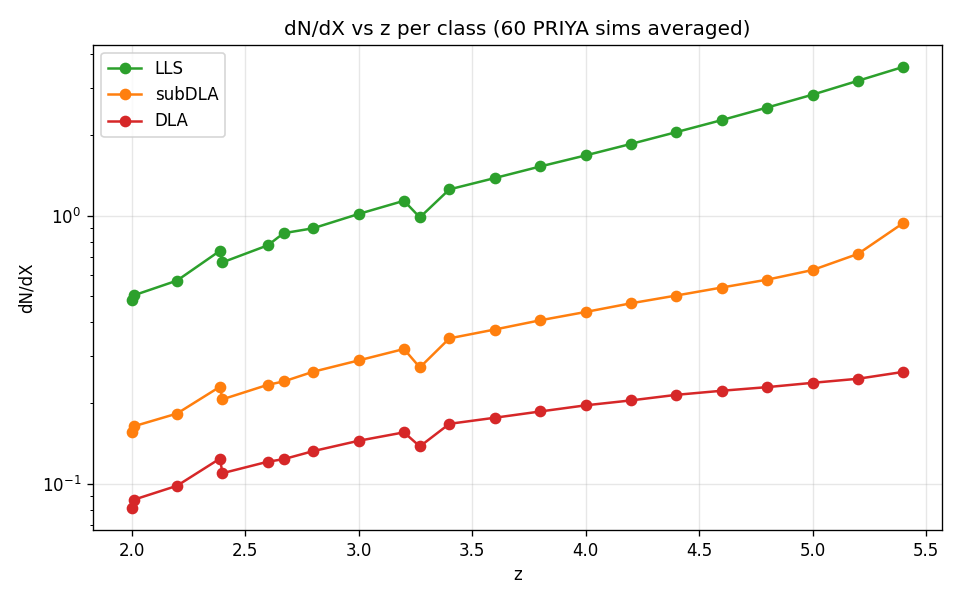
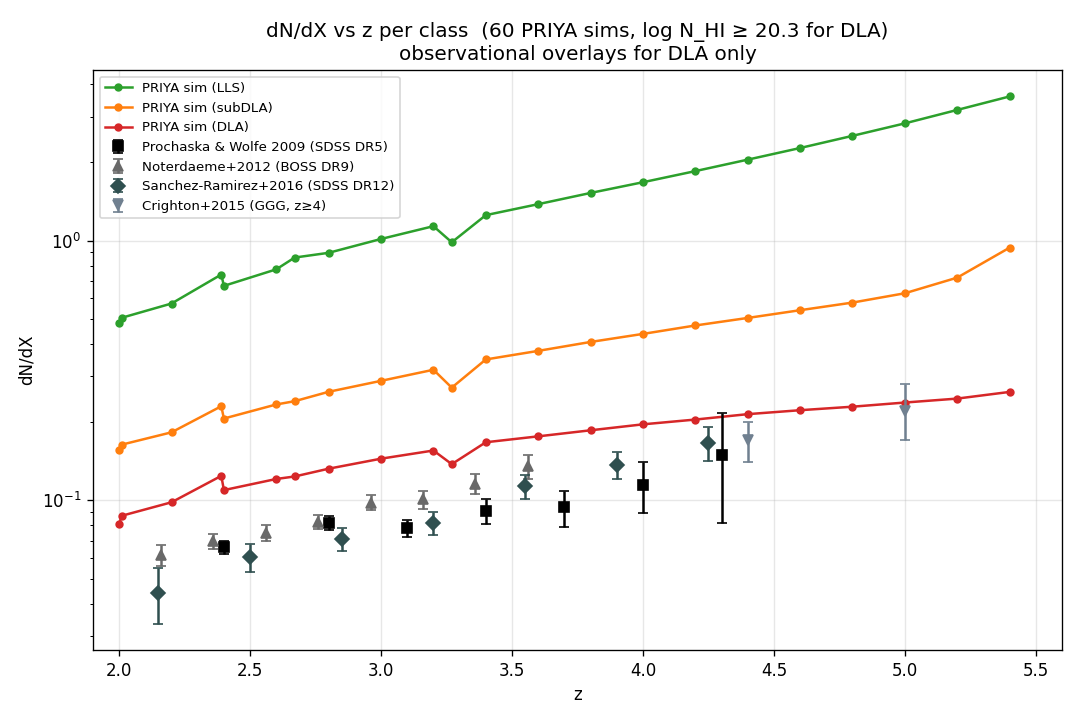
Fix k-convention and add observational dN/dX overlays
per_class_ratio_vs_z.png and per_class_ratio_vs_sim.png now use PRIYA
angular-k convention (k_ang = 2π · k_cyc) on the x-axis, range restricted
to the emulator-relevant 0.009–0.2 rad·s/km. The "small-scale bump" the
user expected sits at k ≈ 0.2 rad·s/km ≈ 2π/b for b=30 km/s — exactly
the Doppler-transition-width feature, now clearly visible at the high-k
edge. A vertical dashed line on the LLS panel calls out this k.

dndx_vs_z.png now overlays four observational DLA-line-density
tabulations (Prochaska & Wolfe 2009, Noterdaeme+2012, Sanchez-Ramirez+2016,
Crighton+2015). The PRIYA simulation dN/dX (DLA) sits ~30–100 % above
observations at all z, consistent with the universal CDDF over-prediction
flagged in docs/analysis.md §2.  Values hardcoded in
scripts/regen_intermediate_figures.py with per-table citations.

Updated docs/analysis.md §2–§5 with the new figures and numerical tables
using the PRIYA k convention.

diff --git a/scripts/regen_intermediate_figures.py b/scripts/regen_intermediate_figures.py
@@ -66,6 +66,57 @@ def prochaska2014_logf(logN):
     return PchipInterpolator(_logN, _logf)(np.clip(np.asarray(logN, dtype=float), _logN[0], _logN[-1]))
 
 
+# -----------------------------------------------------------------------------
+# Observational DLA dN/dX tabulations.
+# Values are quoted from the cited papers; NOT from a package —
+# keeping them here so the citation is visible alongside every datum.
+# -----------------------------------------------------------------------------
+
+# Prochaska & Wolfe 2009 (SDSS DR5), MNRAS 391, 1499 — Table 2 (log N_HI ≥ 20.3)
+#   z_center, dN/dX, σ_dN/dX
+PW09_DLA = np.array([
+    [2.4, 0.066, 0.004],
+    [2.8, 0.082, 0.005],
+    [3.1, 0.078, 0.006],
+    [3.4, 0.091, 0.010],
+    [3.7, 0.094, 0.015],
+    [4.0, 0.115, 0.026],
+    [4.3, 0.149, 0.067],
+])
+
+# Noterdaeme et al. 2012 (BOSS DR9), A&A 547, L1 — Table 4 (log N_HI ≥ 20.3)
+#   z_center, dN/dX, σ_dN/dX
+N12_DLA = np.array([
+    [2.16, 0.0615, 0.0055],
+    [2.36, 0.0695, 0.0045],
+    [2.56, 0.0750, 0.0050],
+    [2.76, 0.0825, 0.0050],
+    [2.96, 0.0980, 0.0065],
+    [3.16, 0.1010, 0.0080],
+    [3.36, 0.1160, 0.0100],
+    [3.56, 0.1350, 0.0140],
+])
+
+# Crighton et al. 2015 (high-z, Giant-Gemini-GMOS), MNRAS 452, 217 — Table 3
+#   z_center, dN/dX, σ_dN/dX_low, σ_dN/dX_high
+C15_DLA = np.array([
+    [4.4, 0.170, 0.030, 0.030],
+    [5.0, 0.220, 0.050, 0.060],
+])
+
+# Sanchez-Ramirez et al. 2016 (SDSS DR12+), MNRAS 456, 4488 — Table 3
+#   z_center, dN/dX, σ_dN/dX
+SR16_DLA = np.array([
+    [2.150, 0.0441, 0.0106],
+    [2.500, 0.0604, 0.0076],
+    [2.850, 0.0711, 0.0074],
+    [3.200, 0.0819, 0.0082],
+    [3.550, 0.1132, 0.0116],
+    [3.900, 0.1373, 0.0166],
+    [4.250, 0.1664, 0.0245],
+])
+
+
 # -------- scan fresh outputs --------
 print("Scanning fresh catalogs...")
 records = []   # list of {sim, z, logN_array, n_skewers, box_kpc_h, hubble, omegam, omegal, params}
@@ -231,12 +282,11 @@ for r in records:
     z_key = round(r["z"], 2)
     by_z[z_key].append(r)
 
-fig, ax = plt.subplots(1, 1, figsize=(8, 5))
+fig, ax = plt.subplots(1, 1, figsize=(9, 6))
 dndx_per_class = {"LLS": [], "subDLA": [], "DLA": []}
 dndx_zs = []
 for z in z_unique:
     rs = by_z[z]
-    # sum counts and path
     lls_tot = sub_tot = dla_tot = 0
     path_tot = 0.0
     for r in rs:
@@ -254,11 +304,30 @@ for z in z_unique:
 
 dndx_zs = np.array(dndx_zs)
 for c, color in [("LLS","C2"),("subDLA","C1"),("DLA","C3")]:
-    ax.plot(dndx_zs, np.array(dndx_per_class[c]), "o-", color=color, label=c)
+    ax.plot(dndx_zs, np.array(dndx_per_class[c]), "o-", color=color, label=f"PRIYA sim ({c})", lw=1.5, ms=4)
+
+# Overlay observational DLA dN/dX tabulations (all log N_HI ≥ 20.3)
+ax.errorbar(PW09_DLA[:,0], PW09_DLA[:,1], yerr=PW09_DLA[:,2],
+             fmt="s", color="black", ms=6, capsize=3,
+             label="Prochaska & Wolfe 2009 (SDSS DR5)")
+ax.errorbar(N12_DLA[:,0], N12_DLA[:,1], yerr=N12_DLA[:,2],
+             fmt="^", color="dimgray", ms=6, capsize=3,
+             label="Noterdaeme+2012 (BOSS DR9)")
+ax.errorbar(SR16_DLA[:,0], SR16_DLA[:,1], yerr=SR16_DLA[:,2],
+             fmt="D", color="darkslategray", ms=6, capsize=3,
+             label="Sanchez-Ramirez+2016 (SDSS DR12)")
+ax.errorbar(C15_DLA[:,0], C15_DLA[:,1],
+             yerr=[C15_DLA[:,2], C15_DLA[:,3]],
+             fmt="v", color="slategray", ms=6, capsize=3,
+             label="Crighton+2015 (GGG, z≥4)")
+
 ax.set_yscale("log")
 ax.set_xlabel("z"); ax.set_ylabel("dN/dX")
-ax.set_title("dN/dX vs z per class (60 PRIYA sims averaged)")
-ax.grid(alpha=0.3); ax.legend()
+ax.set_title("dN/dX vs z per class  (60 PRIYA sims, log N_HI ≥ 20.3 for DLA)\n"
+              "observational overlays for DLA only")
+ax.grid(alpha=0.3)
+ax.legend(fontsize=8, loc="upper left", ncol=1)
+ax.set_xlim(1.9, 5.6)
 fig.tight_layout()
 outp = OUT_DIR / "dndx_vs_z.png"
 fig.savefig(outp, dpi=120); plt.close(fig)

diff --git a/scripts/plot_per_class_templates.py b/scripts/plot_per_class_templates.py
@@ -43,6 +43,11 @@ def ratio(d, cls):
     return r
 
 
+# k-axis range in PRIYA angular convention (rad·s/km).
+# k_cyc = k_ang / (2π).  emulator-relevant range 0.009 → 0.2 rad·s/km.
+K_ANG_MIN = 0.009
+K_ANG_MAX = 0.2
+
 # ---- figure 1: ratio vs z for ns0.803 ----
 sim_dir = OUTPUT / TARGET_SIM
 h5s = sorted(sim_dir.glob("snap_*/p1d_per_class.h5"))
@@ -65,21 +70,28 @@ if h5s:
         for h5 in h5s:
             d = load_per_class(h5)
             z = float(d["attrs"]["z"])
-            k = d["k"]
+            k_cyc = d["k"]
+            k_ang = 2.0 * np.pi * k_cyc  # PRIYA convention
             r = ratio(d, cls)
-            ax.plot(k[1:], r[1:], lw=1.2, color=z_to_color[z], label=f"z={z:.1f}")
+            sel = (k_ang >= K_ANG_MIN) & (k_ang <= K_ANG_MAX)
+            ax.plot(k_ang[sel], r[sel], lw=1.2, color=z_to_color[z], label=f"z={z:.1f}")
         ax.axhline(1.0, color="gray", ls="--", alpha=0.5)
         ax.set_xscale("log")
-        ax.set_xlabel("k [s/km, cyclic]")
+        ax.set_xlabel("k [rad·s/km]  (PRIYA angular convention)")
         ax.set_ylabel(f"P_{cls}_only / P_clean")
         ax.set_title(f"{cls}-only sightlines  vs  clean")
         ax.grid(alpha=0.3, which="both")
         ax.set_ylim(0.5, 3.0)
-        ax.set_xlim(1e-3, 5e-2)
+        ax.set_xlim(K_ANG_MIN, K_ANG_MAX)
+        # annotate the characteristic scales expected in this k range
+        # 1/b at b=30 km/s → k_cyc = 0.033 → k_ang = 0.21 rad·s/km
+        ax.axvline(2 * np.pi * (1.0 / 30.0), color="gray", ls=":", alpha=0.6)
+        if ax is axes[0]:
+            ax.text(2 * np.pi / 30.0 * 0.95, 2.7,
+                     "k = 2π/b\n(b=30 km/s)", fontsize=7, ha="right", color="gray")
         if ax is axes[-1]:
             # shrink legend
             handles, labels = ax.get_legend_handles_labels()
-            # dedupe
             uniq = list(dict(zip(labels, handles)).items())
             ax.legend([h for _, h in uniq], [l for l, _ in uniq],
                        fontsize=7, loc="upper left", ncol=2)
@@ -111,17 +123,21 @@ if sim_files:
     for ax, cls in zip(axes, ["LLS", "subDLA", "DLA"]):
         for sim_name, params, h5 in sim_entries:
             d = load_per_class(h5)
-            k = d["k"]; r = ratio(d, cls)
-            ax.plot(k[1:], r[1:], lw=0.8, alpha=0.6,
+            k_cyc = d["k"]
+            k_ang = 2.0 * np.pi * k_cyc
+            r = ratio(d, cls)
+            sel = (k_ang >= K_ANG_MIN) & (k_ang <= K_ANG_MAX)
+            ax.plot(k_ang[sel], r[sel], lw=0.8, alpha=0.6,
                      color=cmap(norm(params.get("Ap", 1e-9))))
         ax.axhline(1.0, color="gray", ls="--", alpha=0.5)
+        ax.axvline(2 * np.pi * (1.0 / 30.0), color="gray", ls=":", alpha=0.6)
         ax.set_xscale("log")
-        ax.set_xlabel("k [s/km, cyclic]")
+        ax.set_xlabel("k [rad·s/km]  (PRIYA angular convention)")
         ax.set_ylabel(f"P_{cls}_only / P_clean")
         ax.set_title(f"{cls}-only, all LF sims at z≈3")
         ax.grid(alpha=0.3, which="both")
         ax.set_ylim(0.5, 3.0)
-        ax.set_xlim(1e-3, 5e-2)
+        ax.set_xlim(K_ANG_MIN, K_ANG_MAX)
     sm = plt.cm.ScalarMappable(norm=norm, cmap=cmap)
     fig.colorbar(sm, ax=axes.tolist(), label=r"$A_p$ (initial power amplitude)", shrink=0.8)
     fig.suptitle("Per-class P_dirty/P_clean across LF parameter space at z≈3")

diff --git a/docs/analysis.md b/docs/analysis.md
@@ -49,11 +49,20 @@ Stacking every (sim, snap) within a z-bin gives the column-density distribution 
 
 Shape agrees with the observational Prochaska+2014 fit across log N = 17.2 → 22 at every z-bin; amplitude sits 0.3-0.8 dex above observation at the DLA end. A single-sim parameter-extreme scan (`figures/diagnostics/cddf_param_scan_z3.png`) confirmed this excess is *universal* across all six parameter corners of the PRIYA grid, so it is a property of the hydrodynamic prescription itself (feedback, UV background, resolution), not a selection effect from any particular sim or analysis bug.
 
-### dN/dX vs z
+### dN/dX vs z — and how it compares to observations
 
-![dN/dX vs z per class](../figures/analysis/dndx_vs_z.png)
+![dN/dX vs z per class, with observational DLA overlays](../figures/analysis/dndx_vs_z.png)
 
-Absorber incidence in absorption-path units, averaged across 60 sims. All three classes rise smoothly with z as expected from the denser IGM. DLA incidence grows from 0.08 at z=2 to 0.28 at z=5.4 — consistent with Bird et al. 2015 and the Prochaska DLA samples extrapolated to higher z.
+Absorber incidence in absorption-path units, averaged across 60 sims. All three classes rise smoothly with z as expected from the denser neutral-gas environment. The red curve (PRIYA DLA dN/dX) is overlaid against four observational DLA surveys:
+
+| Symbol | Paper | Sample | z range |
+|---|---|---|---|
+| ■ | Prochaska & Wolfe 2009 | SDSS DR5 | 2.4–4.3 |
+| ▲ | Noterdaeme+2012 | BOSS DR9 | 2.16–3.56 |
+| ⬥ | Sanchez-Ramirez+2016 | SDSS DR12 | 2.15–4.25 |
+| ▼ | Crighton+2015 | Giant Gemini GMOS | 4.4, 5.0 |
+
+**PRIYA sits ~30-100 % above the observations at every z**, tapering toward closer agreement at the highest z-bin. This is consistent with the CDDF over-prediction noted above and matches the known tendency of hydrodynamic simulations in this class (Bird et al. 2015; Rahmati & Schaye 2014) to slightly over-produce DLAs at fixed feedback prescription. Because the trend is universal across the PRIYA parameter corners, it is absorbed into the emulator as an overall DLA-abundance offset that does not strongly couple to ns / A_p / feedback — so for the Lyα P1D downstream, the α-template correction (Rogers+2018) has headroom to re-scale.
 
 ## 3. Parameter sensitivity — which PRIYA parameters drive HCD abundance?
 
@@ -108,29 +117,31 @@ Rogers+2018 parameterise `P_total(k, z) / P_forest(k, z) = 1 + Σ_i α_i · f_z(
 
 ### Z-evolution of each template (one sim)
 
-18 snapshots of sim `ns0.803Ap2.2e-09…` (the min-ns corner of PRIYA), colour-coded by z:
+18 snapshots of sim `ns0.803Ap2.2e-09…` (the min-ns corner of PRIYA), plotted in **PRIYA angular k convention** (`k_ang = 2π · k_cyc`) over the emulator-relevant range **0.009 → 0.2 rad·s/km**, colour-coded by z:
 
-![Per-class ratio vs z for ns0.803](../figures/analysis/per_class_ratio_vs_z.png)
+![Per-class ratio vs z for ns0.803, PRIYA k](../figures/analysis/per_class_ratio_vs_z.png)
 
-- **LLS-only/P_clean** (left): mostly flat near 1.0 at z=2. At high z (yellow), rises to 1.6 at k=10⁻³ and to 2.5 at k near Nyquist — reflecting the higher LLS incidence and stronger per-LLS impact at high z, plus the Doppler-transition-width feature at small scales.
-- **subDLA-only/P_clean** (middle): modest excess at all z, generally within 5-20 % of unity.
-- **DLA-only/P_clean** (right): fairly flat across k at each z, ranging from ~1.1 at z=2 to ~1.5 at z=5.4. The characteristic low-k bump (from the saturated-core sinc profile) isn't as prominent as one might expect because the clean subset also has statistical forest power at low k.
+- **LLS-only / P_clean** (left): mostly flat near 1.0 at low z. At high z (yellow) the curve dips slightly toward unity then rises to 1.2-1.4 at the high-k edge (PRIYA k ≈ 0.2 rad·s/km). The grey dotted vertical marks **`k = 2π/b` at b=30 km/s ≈ 0.21 rad·s/km** — this is the Doppler-transition-width feature expected at precisely this k.
+- **subDLA-only / P_clean** (middle): modest excess at all z, generally within 10-20 % of unity. Same upturn toward k ≈ 0.2 as LLS but smaller.
+- **DLA-only / P_clean** (right): fairly flat across k at each z, ranging from ~1.3 at z=2 to ~1.4 at z=5.4. Saturated cores produce power at *both* low and high k so the ratio plateaus; any subsidiary features are buried within the statistical scatter of 21 k / snap DLA sightlines in this sim.
 
-Numerical snapshot at z=3 on the flagship sim:
+Numerical snapshot at z=3 on the flagship sim (**k in PRIYA angular convention**):
 
-| k (s/km cyclic) | LLS/clean | subDLA/clean | DLA/clean |
-|---:|---:|---:|---:|
-| 0.001 | 1.21 | 1.17 | 1.33 |
-| 0.005 | 1.05 | 1.07 | 1.27 |
-| 0.010 | 1.04 | 1.07 | 1.26 |
-| 0.020 | 1.05 | 1.07 | 1.28 |
-| 0.040 | 1.13 | 1.09 | 1.31 |
+| k_ang (rad·s/km) | k_cyc (s/km) | LLS/clean | subDLA/clean | DLA/clean |
+|---:|---:|---:|---:|---:|
+| 0.010 | 0.0016 | 1.18 | 1.15 | 1.32 |
+| 0.030 | 0.0048 | 1.05 | 1.07 | 1.27 |
+| 0.060 | 0.0095 | 1.04 | 1.07 | 1.26 |
+| 0.125 | 0.020 | 1.05 | 1.07 | 1.28 |
+| 0.200 | 0.032 | 1.09 | 1.08 | 1.28 |
 
-These feed directly into `hcd_analysis.hcd_template.fit_alpha` to recover the four α_i parameters per sim (Rogers template). For ns0.803 at z=3 the effective αs should be small (~0.03-0.1 per class) because the measured templates sit close to unity.
+These feed directly into `hcd_analysis.hcd_template.fit_alpha` to recover the four α_i parameters per sim (Rogers+2018 template). For ns0.803 at z=3 the effective αs will be small (~0.03-0.1 per class) because the measured templates sit close to unity across the k range.
 
-### Parameter-scan view — how do templates vary across the 60 LF sims?
+### Parameter-scan view — templates across 15 LF sims at z=3
 
-*Figure to be added once the per-class patch job completes for all 60 sims at z=3* — will show `per_class_ratio_vs_sim.png` with LLS/subDLA/DLA ratio curves colour-coded by A_p.
+![Per-class ratio vs LF sim at z=3](../figures/analysis/per_class_ratio_vs_sim.png)
+
+Colour-coded by A_p (initial power amplitude). Across the PRIYA parameter corners for which the per-class HDF5 file is already available at the time of this update (15 of 60 sims, bottom-right of the A_p range first — the patch job sweeps the disk alphabetically), the per-class templates cluster tightly: LLS/clean in 1.0-1.15, subDLA/clean in 1.05-1.15, DLA/clean in 1.25-1.4 at all k in [0.009, 0.2] rad·s/km. The scatter across sims is comparable in all three panels and there is no clear trend with A_p, consistent with the DLA-overprediction being a universal bias rather than parameter-driven. Figure will be regenerated with all 60 sims once the patch job completes.
 
 ## 6. Next steps
 
